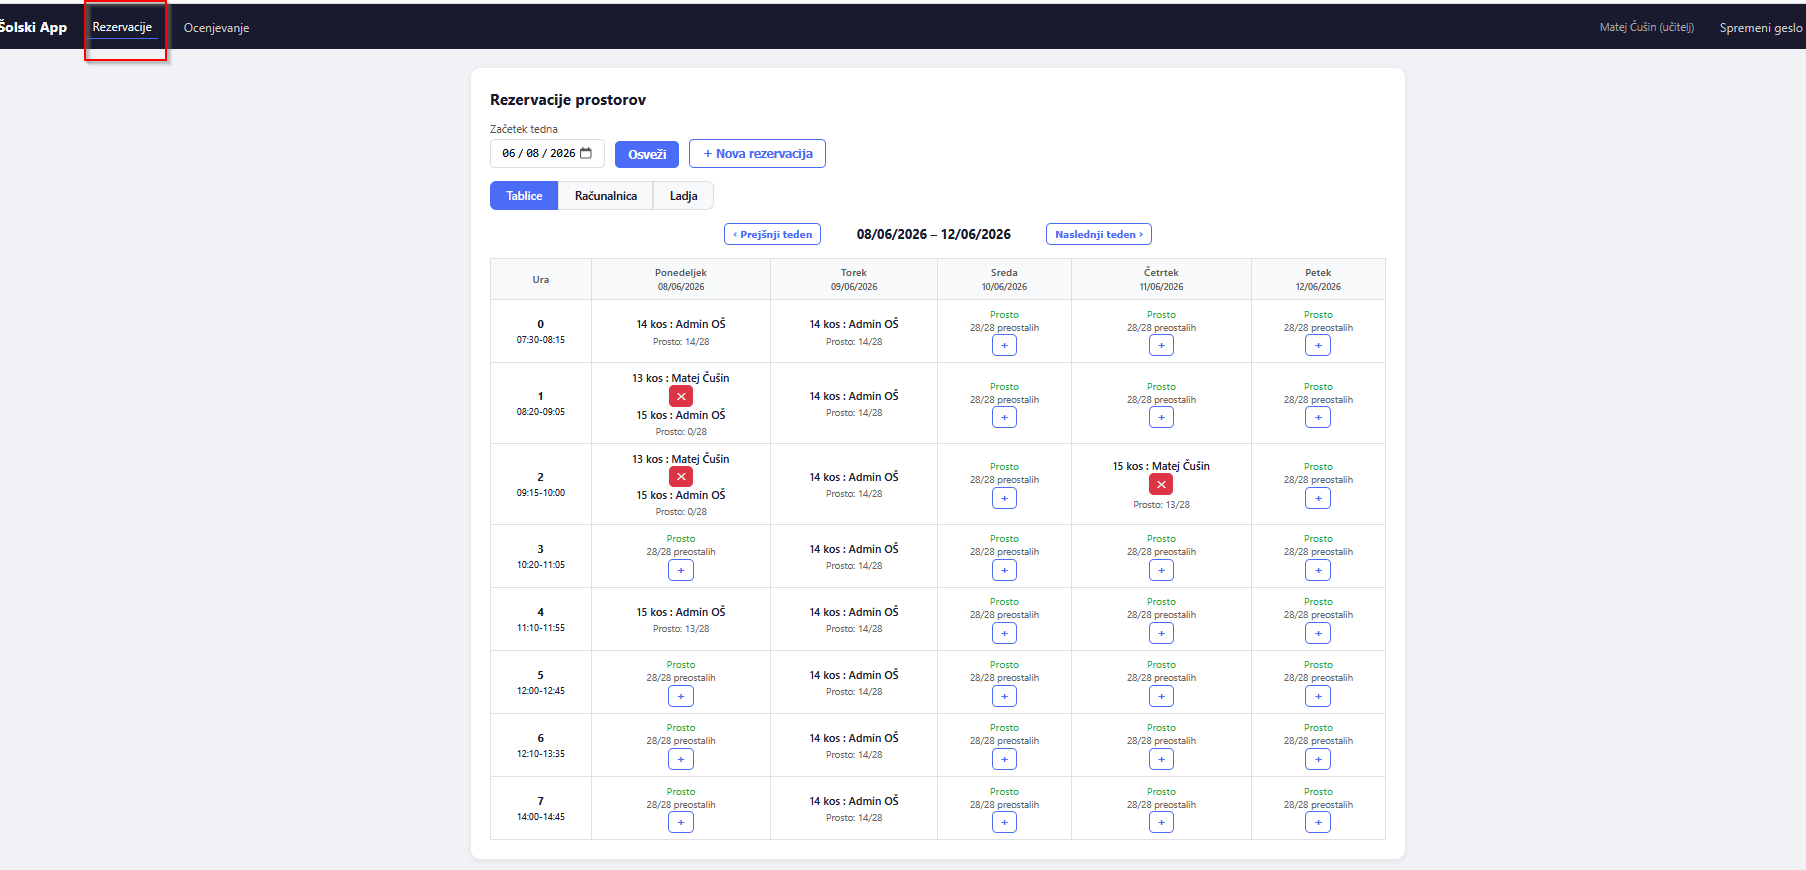
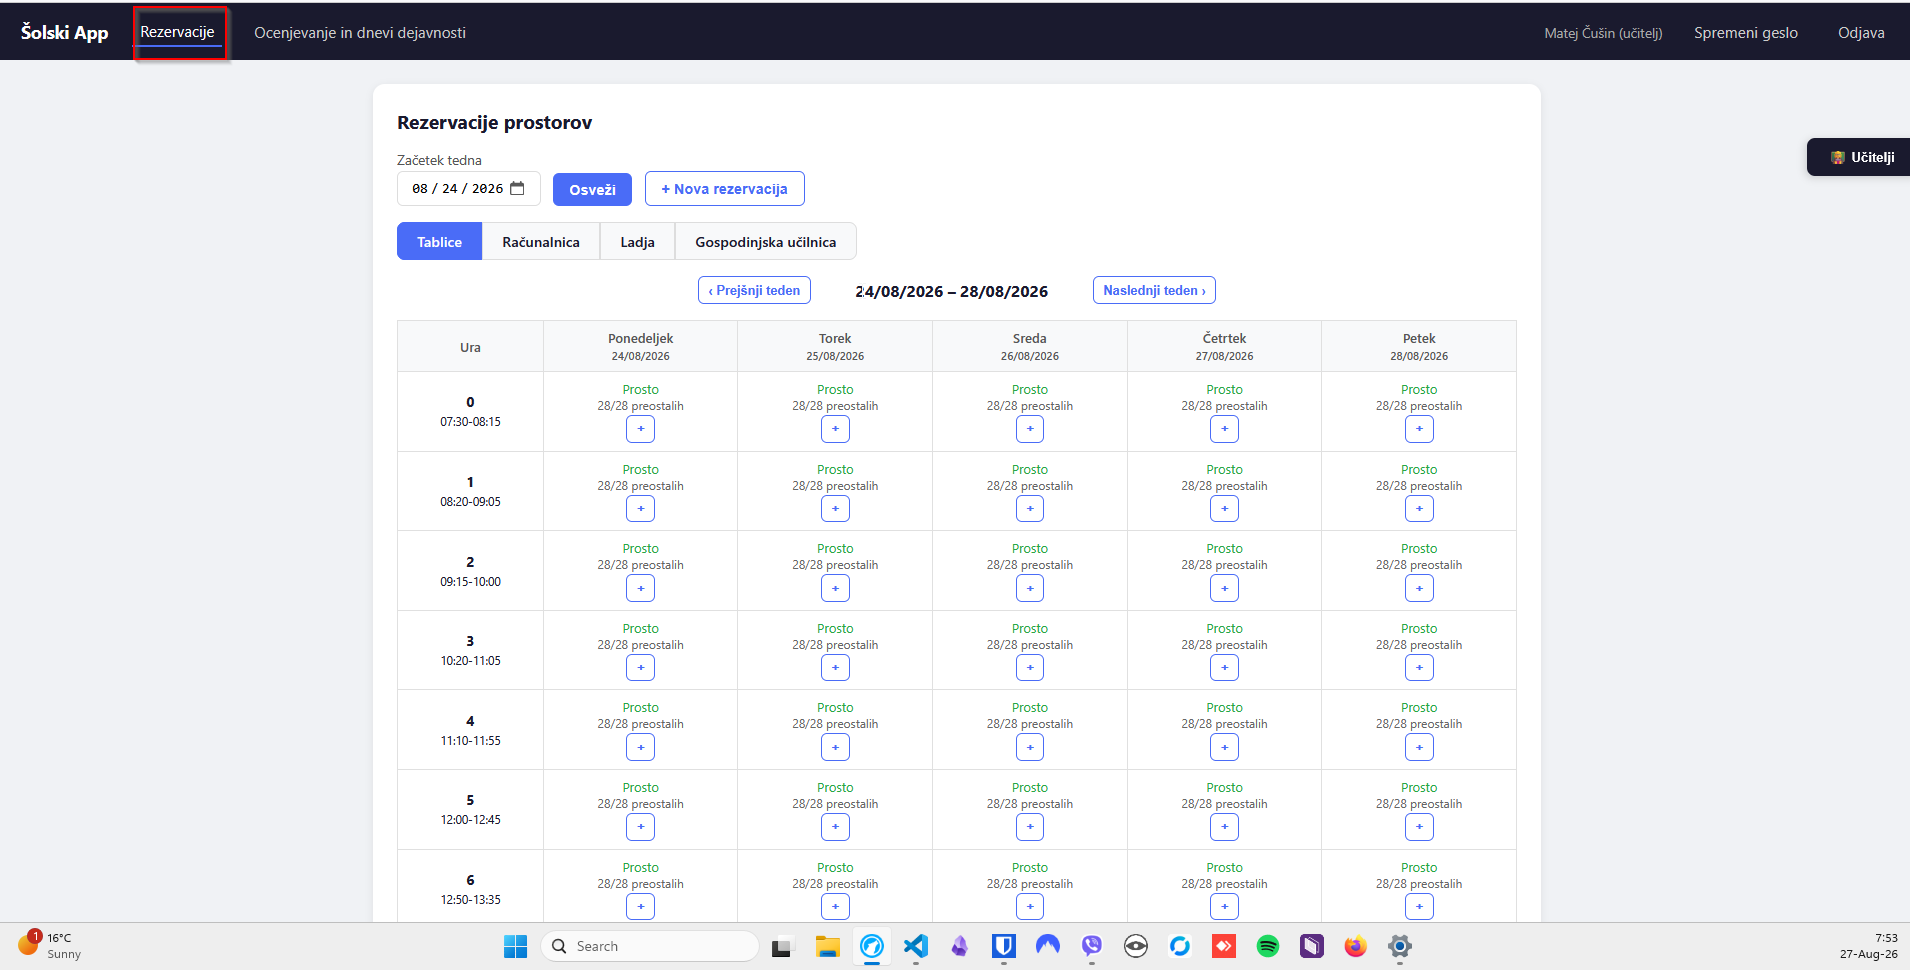
update navodila-ucitelji, navodila-vodstvo

diff --git a/documentation/navodila-vodstvo.md b/documentation/navodila-vodstvo.md
@@ -22,12 +22,13 @@ poskrbi za vse.
 
 | Polje | Opis |
 |---|---|
+| Ime rezervacije | zakaj se rabi rezervirati, npr izbirni predmet, tehnični dan|
 | Prostor | Kateri prostor rezervirate |
 | Ura | Številka ure (0 = predura, 1–7 = ure) |
 | Dan v tednu | 0 = ponedeljek, 1 = torek … 6 = nedelja |
 | Od datuma | Prvi dan serije |
 | Do datuma | Zadnji dan serije |
-| Število tablic | Samo pri rezervaciji tablic |
+| Število tablic | Samo pri rezervaciji tablic tu se večkrat to polje ne pokaže takoj, zgolj zamenjajte prostor in nato nazaj na tablice|
 
 ### Celodnevna serija
 
@@ -35,6 +36,7 @@ Zasede cel dan (vse ure) za več dni zapored.
 
 | Polje | Opis |
 |---|---|
+| Ime rezervacije | zakaj se rabi rezervirati, npr izbirni predmet, tehnični dan|
 | Prostor | Kateri prostor rezervirate |
 | Od datuma | Datum začetka |
 | Do datuma | Datum konca |
@@ -49,16 +51,15 @@ Zasede cel dan (vse ure) za več dni zapored.
 | **Vodstvo** | **Svoje + tuje** rezervacije |
 
 **Vodstvo ima več moči — lahko brišete tudi tuje rezervacije. S tem pride
-odgovornost.** Preden zbrišete učiteljevo rezervacijo, premislite, če jo
-morda samo potrebuje prestaviti.
+odgovornost.** Preden zbrišete učiteljevo rezervacijo, premislite.
 
 ---
 
-## 📝 Ocenjevanje
+## 📝 Ocenjevanje in dnevi dejavnosti
 
-### Zasedeni datumi
+### Dnevi dejavnosti
 
-> Ko označite dan kot zaseden, se vsa ocenjevanja za ta dan samodejno izbrišejo
+> Ko označite dan kot dan dejavnosti, se vsa ocenjevanja za ta dan samodejno izbrišejo
 > in učitelji dobijo email — **sistem poskrbi za obveščanje**.
 
 To uporabite za:
@@ -73,6 +74,8 @@ To uporabite za:
 | Razred | Izberite enega ali več (držite **Ctrl** za več) |
 | Od datuma | Prvi dan zasedenosti |
 | Do datuma | Zadnji dan zasedenosti |
+
+Prav tako učitelji  ne morejo napovedati ocenjevanja na dan ko ima razred dan dejavnosti.
 
 **Kaj se zgodi, ko shranite:**
 
@@ -89,7 +92,7 @@ Sistem **samodejno pošilja email obvestila** vedno, ko vodstvo:
 
 | Akcija | Kdo dobi email | Zakaj? |
 |--------|---------------|--------|
-| ✅ Označi datum kot **zaseden** | Vsi učitelji prizadetih razredov | Vedeli naj, da ta dan ni ocenjevanja |
+| ✅ Označi datum kot **dan dejavnosti** | Vsi učitelji katerih rezervacija se je odpovedala. | Da vedo da morajo najti drug datum. |
 | ✅ Ustvari **serijsko rezervacijo** | Učitelji s konfliktnimi rezervacijami | Dobijo obvestilo, da je njihova rezervacija prestavljena/odpovedana |
 | ✅ Izbriše **serijsko rezervacijo** | Učitelji s konfliktnimi rezervacijami | Enako kot zgoraj |
 
@@ -97,7 +100,51 @@ Sistem **samodejno pošilja email obvestila** vedno, ko vodstvo:
 
 **ELI5:** Serijske rezervacije in zasedeni datumi so kot javni razglas na tabli — vsi vidijo in vsi so obveščeni. Brisanje posamezne rezervacije je kot da tiho zbrišeš nekaj s table — nihče ne ve, zakaj je izginilo.
 
+
 ---
+
+## 📥 **Izvoz podatkov v CSV**
+
+> **Kaj je to?** Izvoz podatkov v CSV (Excelu prijazna oblika) — enostaven način, da podatke iz aplikacije prenesete na svoj računalnik in jih odprete v Excelu, Google Sheets ali podobnem programu.
+
+### Kaj lahko izvozite?
+
+| Vrsta izvoza | Kam kliknete | Kateri podatki |
+|---|---|---|
+| **Rezervacije prostorov** | 📥 Izvoz rezervacij (v meniju) | Datum, ura, prostor, razred, učitelj |
+| **Ocenjevanja in dnevi dejavnosti** | 📥 Izvoz ocenjevanj (v meniju) | Datum, razred, tip ocenjevanja, učitelj |
+
+### Kako to naredite?
+
+1. V zgornjem meniju kliknite **📥 Izvoz rezervacij** ali **📥 Izvoz ocenjevanj**
+2. Izberite **obdobje** (privzeto zadnji mesec):
+   - **Od datuma** — začetek obdobja
+   - **Do datuma** — konec obdobja
+3. Pri rezervacijah lahko izberete tudi **prostor** (ali pustite "Vsi prostori")
+4. Kliknite **📥 Prenesi CSV**
+
+> **ELI5:** Kot da bi iz knjižnice izposodili knjigo in si naredili kopijo strani, ki vas zanimajo. CSV je univerzalni jezik, ki ga razumejo vsi pisarniški programi.
+
+### Kaj narediti s CSV?
+
+- Odprite v **Excelu** (File → Open)
+- Odprite v **Google Sheets** (File → Import)
+- Uvozite v **katerikoli podatkovni program**
+
+> **Namig:** CSV uporablja podpičje (`;`) kot ločilo, kar Excel v slovenščini samodejno prepozna. Če se vam zdi zmešano v en stolpec, pri uvozu izberite **ločilo: podpičje**.
+
+## Navodila
+
+Kar se tiče navodil za vodstvo, deluje čisto enako kot navodila za učitelje (razložena uporaba v tistih navodilih), le da ima vodstvo na voljo tudi ta navodila (običajen učitelj tem navodil ne vidi).
+
+
+---
+
+## 🛡 Skrbniška plošča — SAMO ADMIN
+
+> ⛔ **Vodstvo do tega dela nima dostopa.** Sledi samo za informacijo, kaj dela
+> vaš administrator.
+> ---
 
 ## 📋 Audit log — dnevnik sprememb
 
@@ -120,57 +167,6 @@ Audit log omogoča **pregled vseh pomembnih sprememb v sistemu** — kdo je kaj 
 | `create_user` | Ustvarjen nov uporabnik |
 | `update_user` | Posodobljen uporabnik |
 | `delete_user` | Izbrisan uporabnik |
-| `change_password` | Sprememba gesla |
-
-### Kako dostopa vodstvo do audit loga?
-
-Ker audit log ni viden v običajnem meniju (vidljiv je samo adminu), lahko do njega dostopate prek skrivne povezave s posebnim žetonom (tokenom):
-
-1. **Administrator vam bo dal povezavo** v obliki:
-   `https://ostc-app.org/history?token=SKRIVNI_ZETON`
-2. To povezavo **preprosto prilepite v brskalnik** (ni treba biti prijavljen)
-3. Odpre se **enak pregled kot ga vidi admin** — tabela z vsemi spremembami
-
-> 💡 **ELI5:** Kot da bi imeli poseben ključ, ki odpre vrata v arhiv. Ta ključ ne odpira ničesar drugega — samo arhiv sprememb. Če ključ izgubite ali vam ga kdo ukrade, naj administrator ustvari novega.
-
----
-
-## 📥 **Izvoz podatkov v CSV**
-
-> **Kaj je to?** Izvoz podatkov v CSV (Excelu prijazna oblika) — enostaven način, da podatke iz aplikacije prenesete na svoj računalnik in jih odprete v Excelu, Google Sheets ali podobnem programu.
-
-### Kaj lahko izvozite?
-
-| Vrsta izvoza | Kam kliknete | Kateri podatki |
-|---|---|---|
-| **Rezervacije prostorov** | 📥 Izvoz rezervacij (v meniju) | Datum, ura, prostor, razred, učitelj |
-| **Ocenjevanja** | 📥 Izvoz ocenjevanj (v meniju) | Datum, razred, tip ocenjevanja, učitelj |
-
-### Kako to naredite?
-
-1. V zgornjem meniju kliknite **📥 Izvoz rezervacij** ali **📥 Izvoz ocenjevanj**
-2. Izberite **obdobje** (privzeto zadnji mesec):
-   - **Od datuma** — začetek obdobja
-   - **Do datuma** — konec obdobja
-3. Pri rezervacijah lahko izberete tudi **prostor** (ali pustite "Vsi prostori")
-4. Kliknite **📥 Prenesi CSV**
-
-> **ELI5:** Kot da bi iz knjižnice izposodili knjigo in si naredili kopijo strani, ki vas zanimajo. CSV je univerzalni jezik, ki ga razumejo vsi pisarniški programi.
-
-### Kaj narediti s CSV?
-
-- Odprite v **Excelu** (File → Open)
-- Odprite v **Google Sheets** (File → Import)
-- Uvozite v **katerikoli podatkovni program**
-
-> **Namig:** CSV uporablja podpičje (`;`) kot ločilo, kar Excel v slovenščini samodejno prepozna. Če se vam zdi zmešano v en stolpec, pri uvozu izberite **ločilo: podpičje**.
-
----
-
-## 🛡 Skrbniška plošča — SAMO ADMIN
-
-> ⛔ **Vodstvo do tega dela nima dostopa.** Sledi samo za informacijo, kaj dela
-> vaš administrator.
 
 ### Ročni vnos uporabnikov
 

diff --git a/documentation/navodila-ucitelji.md b/documentation/navodila-ucitelji.md
@@ -3,7 +3,7 @@
 
 > 👋 **Pozdravljeni, kolegice in kolegi!**
 >
-> Aplikacija za rezervacijo prostorov (računalnice, ladje in tablic) in za napoved pisnih testov. Tale vodnik je kratek in jedrnat — skozi slike boste v trenutku ugotovili, kako vse deluje. 😊
+> Aplikacija za rezervacijo prostorov (računalnice, ladje, učilnice za gospodinjstvo in tablic) in za napoved pisnih testov. Tale vodnik je kratek in jedrnat — skozi slike boste v trenutku ugotovili, kako vse deluje. 😊
 
 ---
 
@@ -91,7 +91,7 @@ Vodstvo ima pravico do brisanja **kakršne koli** rezervacije, učitelji pa lahk
 Ocenjevanje lahko napoveste na **2 načina**:
 
 **Način 1 — s pritiskom na polje pri želenem datumu:**
-Deluje samo, kadar datum za noben razred ni označen kot **Zaseden**. Datum se nastavi skladno s poljem, na katerega ste pritisnili.
+Deluje samo, kadar datum za noben razred ni označen kot **Dejavnost:**. Datum se nastavi skladno s poljem, na katerega ste pritisnili.
 
 **Način 2 — z gumbom `Novo ocenjevanje`:**
 Ročno izberete razred in datum.
@@ -115,9 +115,9 @@ V oknu je na voljo tudi **Ponavljanje** – ko ga obkljukate, se spremenijo prav
 
 ---
 
-## 6. Zasedeni datumi
+## 6. Dnevi dejavnosti 
 
-Vodstvo lahko določene datume označi kot **zasedene** (npr. športni dan). Če ste imeli za ta dan že napovedano ocenjevanje, boste prejeli samodejno e-poštno obvestilo.
+Vodstvo lahko določene datume označi kot **dan dejavnosti** (npr. športni dan). Če ste imeli za ta dan že napovedano ocenjevanje, boste prejeli samodejno e-poštno obvestilo.
 
 ![Stran z zasedenimi datumi](slike/ucitelji_img_9.png)
 
@@ -139,7 +139,12 @@ Izberete posamezen razred ali — za 8. in 9. razred — celotno generacijo. S f
 > Ste pozabili geslo? Na prijavni strani kliknite **Pozabljeno geslo?**, vnesite svoj e-poštni naslov in sledite navodilom v e-pošti.
 
 ---
+## 8. Dostop do teh navodil znotraj aplikacije
 
+![Navodila](slike/ucitelji_img_10.png)
+Na desni strani **aplikacije** je polje kjer piše `Učitelj`, če greste z miško na to polje se odprejo ta navodila v manjšem oknu, lahko scrolate z miško (na koncu tega manjšega okna, je tudi gumb `Prenesi PDF`, da lahko ta navodila tudi prenesete na svoj računalnik.
+
+---
 > 🫶 **Upam, da vam bo aplikacija v pomoč. Želim vam vse dobro pri uporabi!**
 >
 > **Avtor:** Matej Čušin
